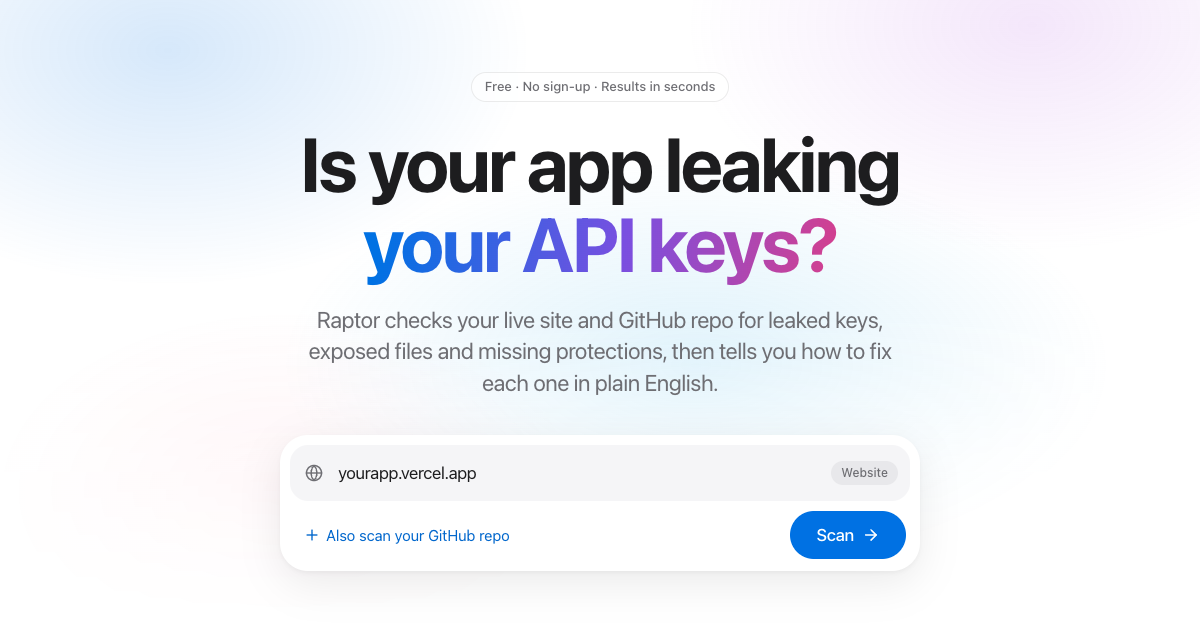
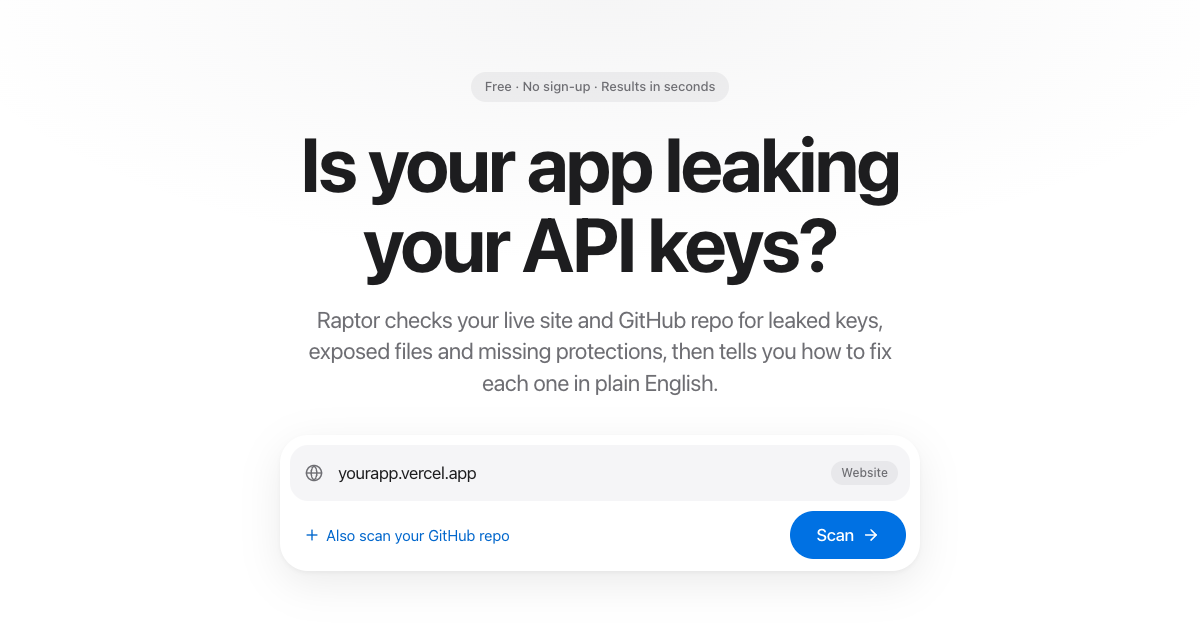
Smooth section breaks with gradients; drop the colored glow
Gray bands now fade in from and back out to the page color instead of starting
with a hard edge. The hero, headline and scan page go back to the original
neutral look; Apple blue stays on buttons, text buttons and links.

Changed region(s): [[0.0, 0.0, 0.2467, 0.2413], [0.3083, 0.3317, 0.7092, 0.4524], [0.5242, 0.4825, 0.6475, 0.6032]]

diff --git a/frontend/src/pages/Home.css b/frontend/src/pages/Home.css
@@ -1,38 +1,11 @@
 /* ---------- Hero ---------- */
 
 .hero {
-  position: relative;
-  isolation: isolate;
-  overflow: hidden;
   padding: clamp(56px, 10vw, 120px) 0 clamp(64px, 9vw, 112px);
-  background: var(--bg);
-}
-
-/* Soft colored light behind the hero, in the spirit of Apple's product pages.
-   Static (no animation) and gradient-only (no blur filter), so it costs nothing to render. */
-.hero::before {
-  content: '';
-  position: absolute;
-  inset: 0;
-  z-index: -1;
+  /* A faint wash of light from above gives the floating form something to sit on */
   background:
-    radial-gradient(42% 52% at 14% 8%, var(--glow-blue), transparent 72%),
-    radial-gradient(40% 50% at 86% 4%, var(--glow-purple), transparent 72%),
-    radial-gradient(48% 46% at 58% 58%, var(--glow-cyan), transparent 72%),
-    radial-gradient(34% 40% at 24% 78%, var(--glow-pink), transparent 72%);
-  -webkit-mask-image: linear-gradient(to bottom, #000 50%, transparent 100%);
-  mask-image: linear-gradient(to bottom, #000 50%, transparent 100%);
-}
-
-.hero-gradient {
-  background: var(--headline-gradient);
-  -webkit-background-clip: text;
-  background-clip: text;
-  -webkit-text-fill-color: transparent;
-  /* Paint the gradient per line when the phrase wraps, and leave room for descenders */
-  -webkit-box-decoration-break: clone;
-  box-decoration-break: clone;
-  padding-bottom: 0.06em;
+    radial-gradient(80% 60% at 50% 0%, rgba(120, 120, 128, 0.07), transparent 70%),
+    var(--bg);
 }
 
 .hero-inner {
@@ -47,11 +20,7 @@
   align-items: center;
   padding: 6px 14px;
   border-radius: var(--radius-pill);
-  /* Thin material so the glow shows through without hurting legibility */
-  background: var(--material);
-  box-shadow: inset 0 0 0 1px var(--separator);
-  backdrop-filter: saturate(180%) blur(12px);
-  -webkit-backdrop-filter: saturate(180%) blur(12px);
+  background: var(--fill);
   color: var(--label-secondary);
   font-weight: 500;
 }
@@ -98,7 +67,19 @@
 }
 
 .section-alt {
-  background: var(--bg-secondary);
+  --fade: clamp(96px, 14vw, 180px);
+  background: linear-gradient(
+    to bottom,
+    var(--bg) 0,
+    var(--bg-secondary) var(--fade),
+    var(--bg-secondary) calc(100% - var(--fade)),
+    var(--bg) 100%
+  );
+}
+
+/* The last band runs into the footer, which shares its color, so it only fades in */
+.section-alt-end {
+  background: linear-gradient(to bottom, var(--bg) 0, var(--bg-secondary) var(--fade));
 }
 
 .section-header {

diff --git a/frontend/src/pages/Home.tsx b/frontend/src/pages/Home.tsx
@@ -109,7 +109,7 @@ export default function Home() {
               Free · No sign-up · Results in seconds
             </p>
             <h1 className="t-hero hero-title rise" style={{ '--i': 1 } as React.CSSProperties}>
-              Is your app leaking <span className="hero-gradient">your API keys?</span>
+              Is your app leaking your API keys?
             </h1>
             <p className="hero-sub rise" style={{ '--i': 2 } as React.CSSProperties}>
               Raptor checks your live site and GitHub repo for leaked keys, exposed files and missing protections,
@@ -169,7 +169,7 @@ export default function Home() {
           </div>
         </section>
 
-        <section id="faq" className="section section-alt">
+        <section id="faq" className="section section-alt section-alt-end">
           <div className="container">
             <header className="section-header">
               <h2 className="t-large">Questions</h2>

diff --git a/frontend/src/styles/tokens.css b/frontend/src/styles/tokens.css
@@ -35,12 +35,6 @@
   --accent-tint: rgba(0, 113, 227, 0.1);
   --accent-tint-hover: rgba(0, 113, 227, 0.16);
 
-  /* Hero glow, in Apple's system blue, purple, cyan and pink */
-  --glow-blue: rgba(0, 113, 227, 0.16);
-  --glow-purple: rgba(175, 82, 222, 0.14);
-  --glow-cyan: rgba(50, 173, 230, 0.16);
-  --glow-pink: rgba(255, 45, 85, 0.07);
-  --headline-gradient: linear-gradient(100deg, #0071e3 5%, #7a4fe0 55%, #d63f8c 100%);
 
   --brand: #ff6a00;
 
@@ -115,11 +109,6 @@
     --accent-tint: rgba(41, 151, 255, 0.16);
     --accent-tint-hover: rgba(41, 151, 255, 0.24);
 
-    --glow-blue: rgba(10, 132, 255, 0.3);
-    --glow-purple: rgba(191, 90, 242, 0.26);
-    --glow-cyan: rgba(100, 210, 255, 0.18);
-    --glow-pink: rgba(255, 55, 95, 0.14);
-    --headline-gradient: linear-gradient(100deg, #2997ff 5%, #a78bff 55%, #ff6fb0 100%);
 
     --critical: #ff6961;
     --critical-tint: rgba(255, 69, 58, 0.16);

diff --git a/frontend/src/pages/Scan.css b/frontend/src/pages/Scan.css
@@ -1,8 +1,4 @@
 .scan-page {
-  background:
-    radial-gradient(50% 280px at 30% 0%, var(--glow-blue), transparent 80%),
-    radial-gradient(45% 260px at 75% 0%, var(--glow-purple), transparent 80%),
-    var(--bg);
   min-height: calc(100vh - var(--nav-height) - 80px);
   min-height: calc(100dvh - var(--nav-height) - 80px);
   padding: clamp(32px, 6vw, 64px) 0 96px;

diff --git a/README.md b/README.md
@@ -6,13 +6,13 @@ Live at **[raptorscan.netlify.app](https://raptorscan.netlify.app)**. No sign-up
 
 ## What it checks
 
-| | Website | Repository |
-| --- | --- | --- |
-| **Leaked secrets** | OpenAI, Stripe, Supabase `service_role`, AWS, GitHub and other keys shipped in your JavaScript bundle | Gitleaks + TruffleHog over every file; TruffleHog confirms which keys **still work** |
-| **Exposed files** | Public `/.env`, `/.env.local`, `/.env.production`, `/.git/` | `.env` files with real secrets committed, including secrets behind `VITE_` / `NEXT_PUBLIC_` prefixes |
-| **Databases** | Supabase anon key found → RLS reminder | Firebase / Firestore / Storage rules left open or in test mode |
-| **Transport & headers** | HTTPS, HTTP→HTTPS redirect, HSTS, CSP, clickjacking, nosniff, cookies, CORS origin reflection | |
-| **Dependencies** | | `npm audit` on production dependencies |
+|                               | Website                                                                                                 | Repository                                                                                                 |
+| ----------------------------- | ------------------------------------------------------------------------------------------------------- | ---------------------------------------------------------------------------------------------------------- |
+| **Leaked secrets**      | OpenAI, Stripe, Supabase `service_role`, AWS, GitHub and other keys shipped in your JavaScript bundle | Gitleaks + TruffleHog over every file; TruffleHog confirms which keys **still work**                 |
+| **Exposed files**       | Public `/.env`, `/.env.local`, `/.env.production`, `/.git/`                                     | `.env` files with real secrets committed, including secrets behind `VITE_` / `NEXT_PUBLIC_` prefixes |
+| **Databases**           | Supabase anon key found → RLS reminder                                                                 | Firebase / Firestore / Storage rules left open or in test mode                                             |
+| **Transport & headers** | HTTPS, HTTP→HTTPS redirect, HSTS, CSP, clickjacking, nosniff, cookies, CORS origin reflection          |                                                                                                            |
+| **Dependencies**        |                                                                                                         | `npm audit` on production dependencies                                                                   |
 
 Fixes are written for the host it detects (Netlify, Vercel, Next.js, Express), and the report can be copied as a prompt for Cursor, Claude Code, Lovable or Bolt.
 
@@ -45,11 +45,11 @@ Or run the API exactly as production does: `cd backend && docker compose up --bu
 
 ## API
 
-| | |
-| --- | --- |
-| `POST /api/v1/scans` | Body `{ "url"?: string, "repo"?: string }`. Returns `202` with a job (`id`, `status`, `steps`). |
+|                           |                                                                                                                   |
+| ------------------------- | ----------------------------------------------------------------------------------------------------------------- |
+| `POST /api/v1/scans`    | Body `{ "url"?: string, "repo"?: string }`. Returns `202` with a job (`id`, `status`, `steps`).         |
 | `GET /api/v1/scans/:id` | Poll for progress. When `status` is `done`, `result` holds the report. Jobs are kept in memory for 2 hours. |
-| `GET /api/v1/health` | Uptime, memory, queue and scanner versions. |
+| `GET /api/v1/health`    | Uptime, memory, queue and scanner versions.                                                                       |
 
 Repo scans run one at a time (the server has 1 GB of RAM); queued jobs report their position.
 
